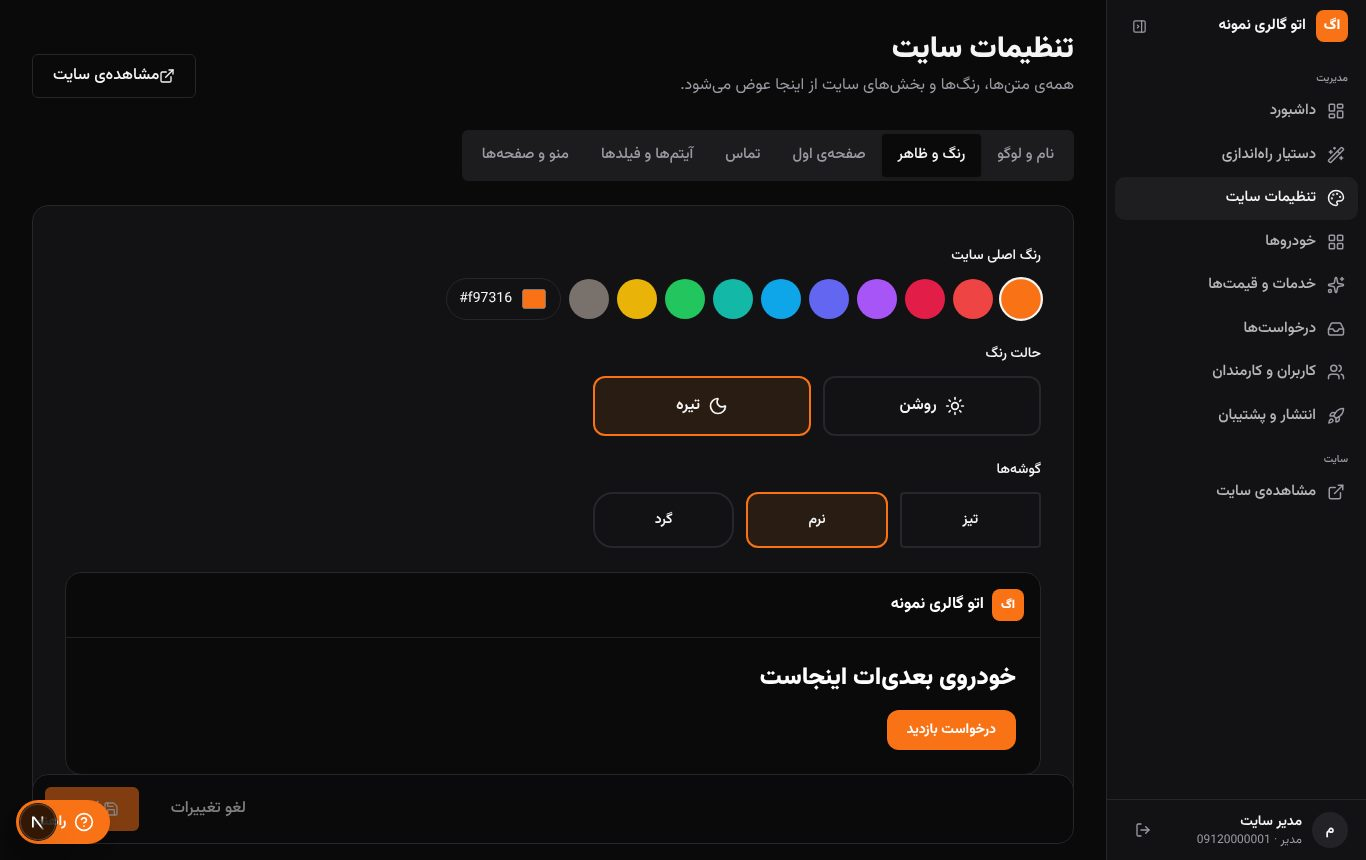
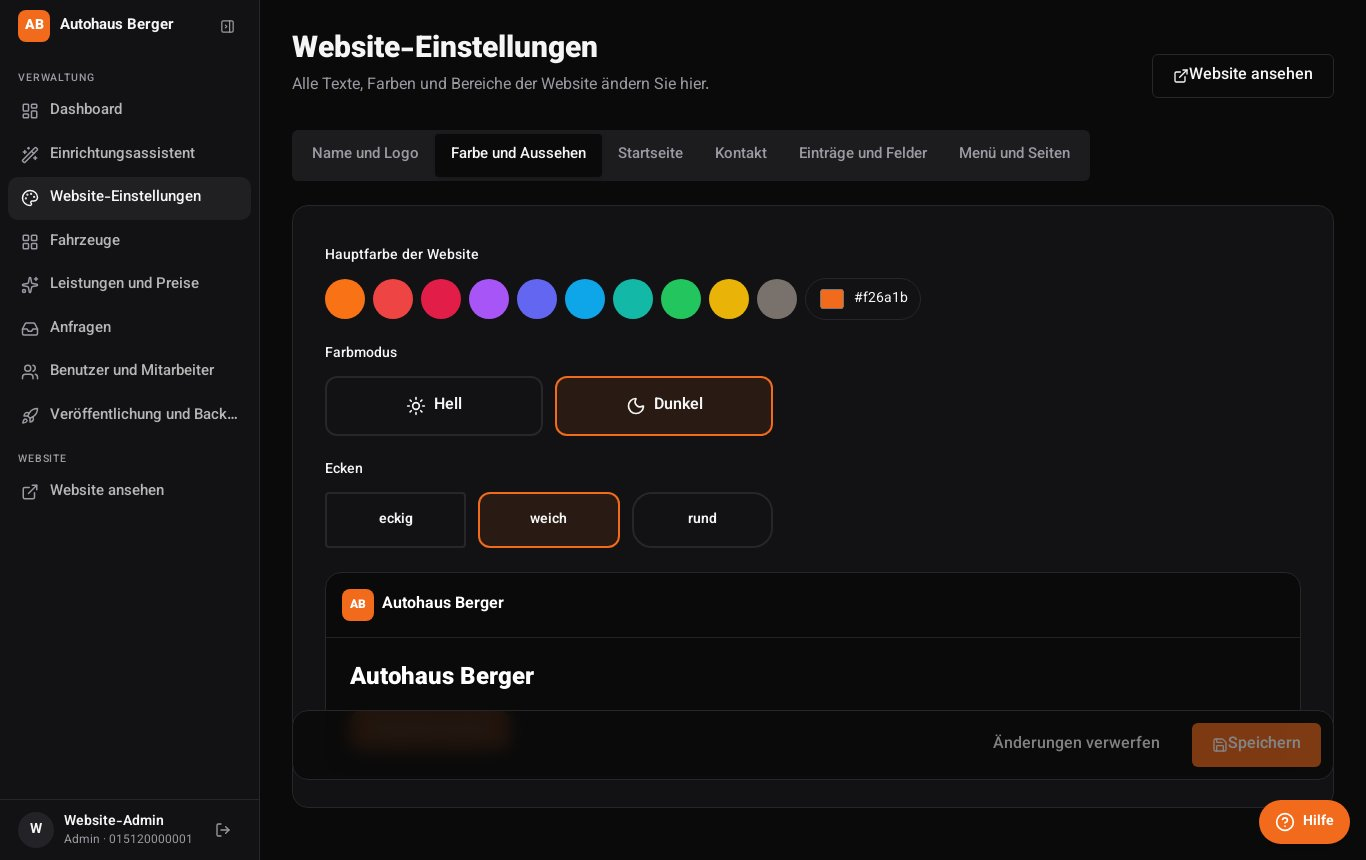
Deutsche Screenshots, Preisvorschau im Assistenten korrigiert, Formular auf dem Handy nicht mehr zu breit, Texte für Einträge

diff --git a/web/src/app/admin/setup/page.tsx b/web/src/app/admin/setup/page.tsx
@@ -154,7 +154,7 @@ function Wizard() {
 
         <div className="mt-8">
           {current.key === "type" && (
-            <div className="grid gap-5">
+            <div className="grid grid-cols-1 gap-5">
               <div className="grid gap-3 sm:grid-cols-2" role="radiogroup" aria-label="Unternehmensart">
                 {site.presets.map((p) => (
                   <button key={p.key} type="button" role="radio" aria-checked={preset === p.key} onClick={() => setPreset(p.key)}
@@ -172,20 +172,20 @@ function Wizard() {
           {current.key === "look" && <LookSection c={draft} set={set} />}
           {current.key === "contact" && <ContactSection c={draft} set={set} />}
           {current.key === "home" && (
-            <div className="grid gap-6">
+            <div className="grid grid-cols-1 gap-6">
               <HeroSection c={draft} set={set} />
               <AreaField label="Ein Absatz „Über uns“ (optional)" value={draft.home.aboutText} onChange={(v) => set("home.aboutText", v)} max={3000} rows={4} />
               <p className="text-sm text-muted-foreground">Weitere Bereiche der Startseite (Vorteile, Fragen, Kennzahlen) stellen Sie später unter „Website-Einstellungen → Startseite“ ein.</p>
             </div>
           )}
           {current.key === "items" && (
-            <div className="grid gap-5">
+            <div className="grid grid-cols-1 gap-5">
               {site.progress.listings > 0 && (
                 <p className="rounded-xl bg-emerald-500/10 p-3 text-sm text-emerald-700 dark:text-emerald-300">{`${fa(site.progress.listings)} ${site.progress.listings === 1 ? L.itemSingular : L.itemPlural} angelegt. `}<Link href="/admin/items" className="font-semibold underline">Alle verwalten</Link></p>
               )}
-              <div className="grid gap-4 sm:grid-cols-2">
+              <div className="grid grid-cols-1 gap-4 sm:grid-cols-2">
                 <TextField className="sm:col-span-2" label={`Titel: ${L.itemSingular}`} required value={quick.title} onChange={(v) => setQuick({ ...quick, title: v })} max={150} />
-                <div className="grid gap-2">
+                <div className="grid grid-cols-1 gap-2">
                   <span className="text-sm font-medium">Preis</span>
                   <div className="flex gap-2">
                     <Select value={quick.priceType} onValueChange={(v) => setQuick({ ...quick, priceType: v })}>
@@ -194,10 +194,10 @@ function Wizard() {
                     </Select>
                     <input dir="ltr" inputMode="numeric" value={quick.price} onChange={(e) => setQuick({ ...quick, price: e.target.value })} placeholder="€" aria-label="Preis in Euro" className="h-11 min-w-0 flex-1 rounded-md border border-input bg-transparent px-3" />
                   </div>
-                  <p className="text-xs text-muted-foreground">{digits(quick.price) ? `= ${toman(Number(digits(quick.price)) * 10)}` : "leer lassen = „Auf Anfrage“"}</p>
+                  <p className="text-xs text-muted-foreground">{digits(quick.price) ? `= ${toman(Number(digits(quick.price)) * 100)}` : "leer lassen = „Auf Anfrage“"}</p>
                 </div>
                 {draft.categories.length > 0 && (
-                  <div className="grid gap-2">
+                  <div className="grid grid-cols-1 gap-2">
                     <span className="text-sm font-medium">{L.categoryLabel}</span>
                     <Select value={quick.category} onValueChange={(v) => setQuick({ ...quick, category: v })}>
                       <SelectTrigger className="h-11" aria-label={L.categoryLabel}><SelectValue placeholder="Auswählen" /></SelectTrigger>
@@ -212,7 +212,7 @@ function Wizard() {
             </div>
           )}
           {current.key === "services" && (
-            <div className="grid gap-4 sm:grid-cols-2">
+            <div className="grid grid-cols-1 gap-4 sm:grid-cols-2">
               {site.progress.services > 0 && <p className="rounded-xl bg-emerald-500/10 p-3 text-sm text-emerald-700 sm:col-span-2 dark:text-emerald-300">{`${fa(site.progress.services)} Leistung angelegt. `}<Link href="/admin/services" className="font-semibold underline">Leistungen verwalten</Link></p>}
               <TextField label="Titel der Leistung" value={svc.title} onChange={(v) => setSvc({ ...svc, title: v })} max={120} />
               <TextField label="Preis (€)" dir="ltr" value={svc.price} onChange={(v) => setSvc({ ...svc, price: v })} hint="leer = „Auf Anfrage“" />
@@ -221,8 +221,8 @@ function Wizard() {
             </div>
           )}
           {current.key === "publish" && (
-            <div className="grid gap-4">
-              <ul className="grid gap-2">
+            <div className="grid grid-cols-1 gap-4">
+              <ul className="grid grid-cols-1 gap-2">
                 {steps.filter((s) => s.key !== "publish").map((s) => (
                   <li key={s.key} className="flex items-center gap-2 text-sm">
                     {s.done(site) ? <CheckCircle2 className="size-4 text-emerald-500" aria-hidden /> : <span className="size-4 rounded-full border border-border" aria-hidden />}

diff --git a/web/src/components/admin/fields.tsx b/web/src/components/admin/fields.tsx
@@ -16,7 +16,7 @@ export function TextField({ label, value, onChange, hint, placeholder, max, dir,
 }) {
   const id = useId();
   return (
-    <div className={`grid gap-2 ${className ?? ""}`}>
+    <div className={`grid grid-cols-1 gap-2 ${className ?? ""}`}>
       <Label htmlFor={id}>{label}{required && <span className="text-destructive"> *</span>}</Label>
       <Input id={id} type={type} dir={dir} value={value ?? ""} onChange={(e) => onChange(e.target.value)} placeholder={placeholder} maxLength={max} required={required} className="h-11" />
       {hint && <p className="text-xs leading-5 text-muted-foreground">{hint}</p>}
@@ -29,7 +29,7 @@ export function AreaField({ label, value, onChange, hint, placeholder, max, rows
 }) {
   const id = useId();
   return (
-    <div className={`grid gap-2 ${className ?? ""}`}>
+    <div className={`grid grid-cols-1 gap-2 ${className ?? ""}`}>
       <Label htmlFor={id}>{label}</Label>
       <Textarea id={id} rows={rows} value={value ?? ""} onChange={(e) => onChange(e.target.value)} placeholder={placeholder} maxLength={max} />
       {hint && <p className="text-xs leading-5 text-muted-foreground">{hint}</p>}
@@ -71,7 +71,7 @@ export function ImageField({ label, value, onChange, hint, accept = "image", cla
     }
   };
   return (
-    <div className={`grid gap-2 ${className ?? ""}`}>
+    <div className={`grid grid-cols-1 gap-2 ${className ?? ""}`}>
       <span className="text-sm font-medium">{label}</span>
       <div className="flex flex-wrap items-center gap-3">
         <div className="grid size-24 shrink-0 place-items-center overflow-hidden rounded-xl border border-dashed border-border bg-muted">

diff --git a/web/src/lib/setup-steps.ts b/web/src/lib/setup-steps.ts
@@ -14,7 +14,7 @@ export function setupSteps(s: AdminSite | null): StepInfo[] {
     { key: "look", title: "Farbe und Aussehen", why: "Die Hauptfarbe sitzt auf Buttons und Links; stimmen Sie sie mit Ihrem Logo ab.", done: () => has("look") },
     { key: "contact", title: "Kontaktwege", why: "Kunden sollen mit einem Klick anrufen oder schreiben können.", done: (x) => x.progress.hasContact },
     { key: "home", title: "Startseite", why: "Das Erste, was Besucher sehen: eine klare Überschrift und ein gutes Bild.", done: (x) => x.progress.hasHero && has("home") },
-    { key: "items", title: `Erste(r/s) ${L?.itemSingular ?? "Eintrag"}`, why: `Mindestens ein(e) ${L?.itemSingular ?? "Eintrag"} hinzufügen, damit die Seite ${L?.itemPlural ?? "Einträge"} nicht leer ist.`, done: (x) => x.progress.listings > 0 },
+    { key: "items", title: `${L?.itemPlural ?? "Einträge"} anlegen`, why: `Legen Sie mindestens einen Eintrag an, damit die Seite „${L?.itemPlural ?? "Einträge"}“ nicht leer ist.`, done: (x) => x.progress.listings > 0 },
     { key: "services", title: "Leistungen und Preise", why: "Optional: eine Liste der Leistungen mit Preisen, für Kunden, die nach Preisen suchen.", done: (x) => x.progress.services > 0 || has("services"), optional: true },
     { key: "publish", title: "Website veröffentlichen", why: "Solange Sie nicht veröffentlichen, sehen Besucher die Seite „Bald für Sie da“.", done: (x) => x.isPublished },
   ];

diff --git a/web/src/app/admin/items/page.tsx b/web/src/app/admin/items/page.tsx
@@ -55,8 +55,8 @@ export default function AdminItemsPage() {
       <LoadState loading={loading && !data} error={error} onRetry={reload} />
       {data && rows.length === 0 && (
         <div className="rounded-2xl border border-dashed border-border p-12 text-center">
-          <p className="text-muted-foreground">{q ? "Nichts gefunden." : `Noch kein(e) ${L?.itemSingular ?? "Eintrag"} angelegt.`}</p>
-          {!q && <Button asChild className="mt-4"><Link href="/admin/items/new"><Plus className="size-4" />{`Erste(r/s) ${L?.itemSingular ?? "Eintrag"}`}</Link></Button>}
+          <p className="text-muted-foreground">{q ? "Nichts gefunden." : `Noch keine ${L?.itemPlural ?? "Einträge"} angelegt.`}</p>
+          {!q && <Button asChild className="mt-4"><Link href="/admin/items/new"><Plus className="size-4" />{`${L?.itemSingular ?? "Eintrag"} anlegen`}</Link></Button>}
         </div>
       )}
       <ul className="grid gap-3">

diff --git a/web/src/app/items/page.tsx b/web/src/app/items/page.tsx
@@ -88,7 +88,7 @@ export default async function ItemsPage({ searchParams }: { searchParams: Promis
       {!data && <p className="text-center text-muted-foreground">Keine Verbindung zum Server.</p>}
       {data && data.items.length === 0 && (
         <div className="rounded-[var(--radius)] border border-dashed border-border p-12 text-center text-muted-foreground">
-          {base ? <>Nichts gefunden. <Link href="/items" className="text-primary underline">Filter zurücksetzen</Link></> : `Noch kein(e) ${c.labels.itemSingular} vorhanden.`}
+          {base ? <>Nichts gefunden. <Link href="/items" className="text-primary underline">Filter zurücksetzen</Link></> : `Noch keine ${c.labels.itemPlural} vorhanden.`}
         </div>
       )}
       {data && data.items.length > 0 && (

diff --git a/README.md b/README.md
@@ -44,8 +44,8 @@ Ich habe Ideen, Anforderungen und Entscheidungen vorgegeben und alles getestet; 
 | ![Assistent](docs/screenshots/wizard.jpg) | ![Aussehen](docs/screenshots/look.jpg) |
 | **Eigene Felder & Kategorien** | **Veröffentlichen, Export/Import, Neustart** |
 | ![Felder](docs/screenshots/catalog.jpg) | ![Veröffentlichen](docs/screenshots/publish.jpg) |
-| **Beispiel: Vorlage „Autohaus“ mit Beispielinhalt** | **Ergebnis des Assistenten: „Reisebüro“** |
-| ![Autohaus](docs/screenshots/home.jpg) | ![Reisebüro](docs/screenshots/result-travel.jpg) |
+| **Beispiel: Vorlage „Autohaus“ mit Beispielinhalt** | **Leistungen mit Preisliste** |
+| ![Autohaus](docs/screenshots/home.jpg) | ![Leistungen](docs/screenshots/services.jpg) |
 | **Liste mit Filtern aus eigenen Feldern** | **Admin-Dashboard mit Fortschritt** |
 | ![Liste](docs/screenshots/items.jpg) | ![Dashboard](docs/screenshots/dashboard.jpg) |
 
